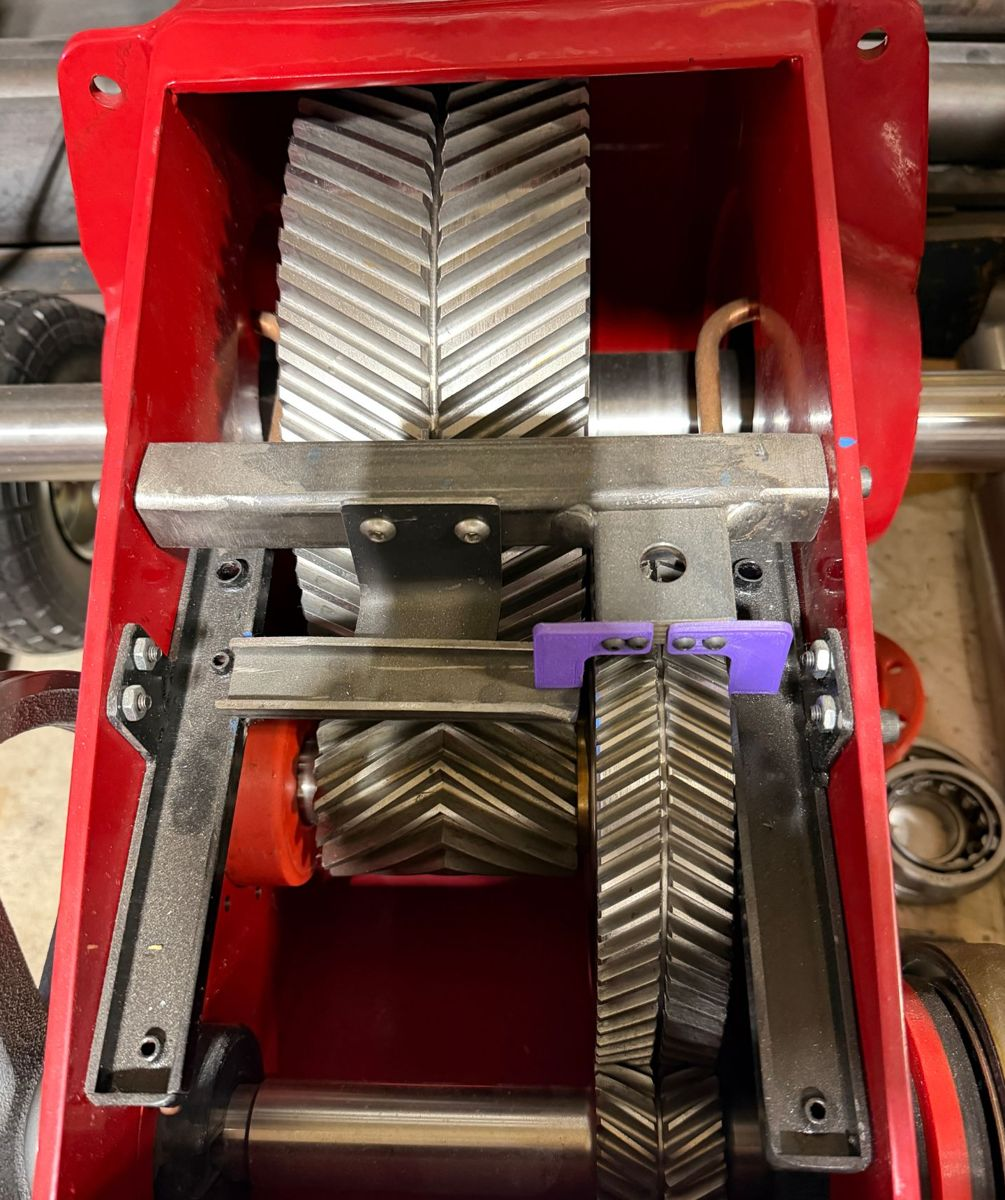
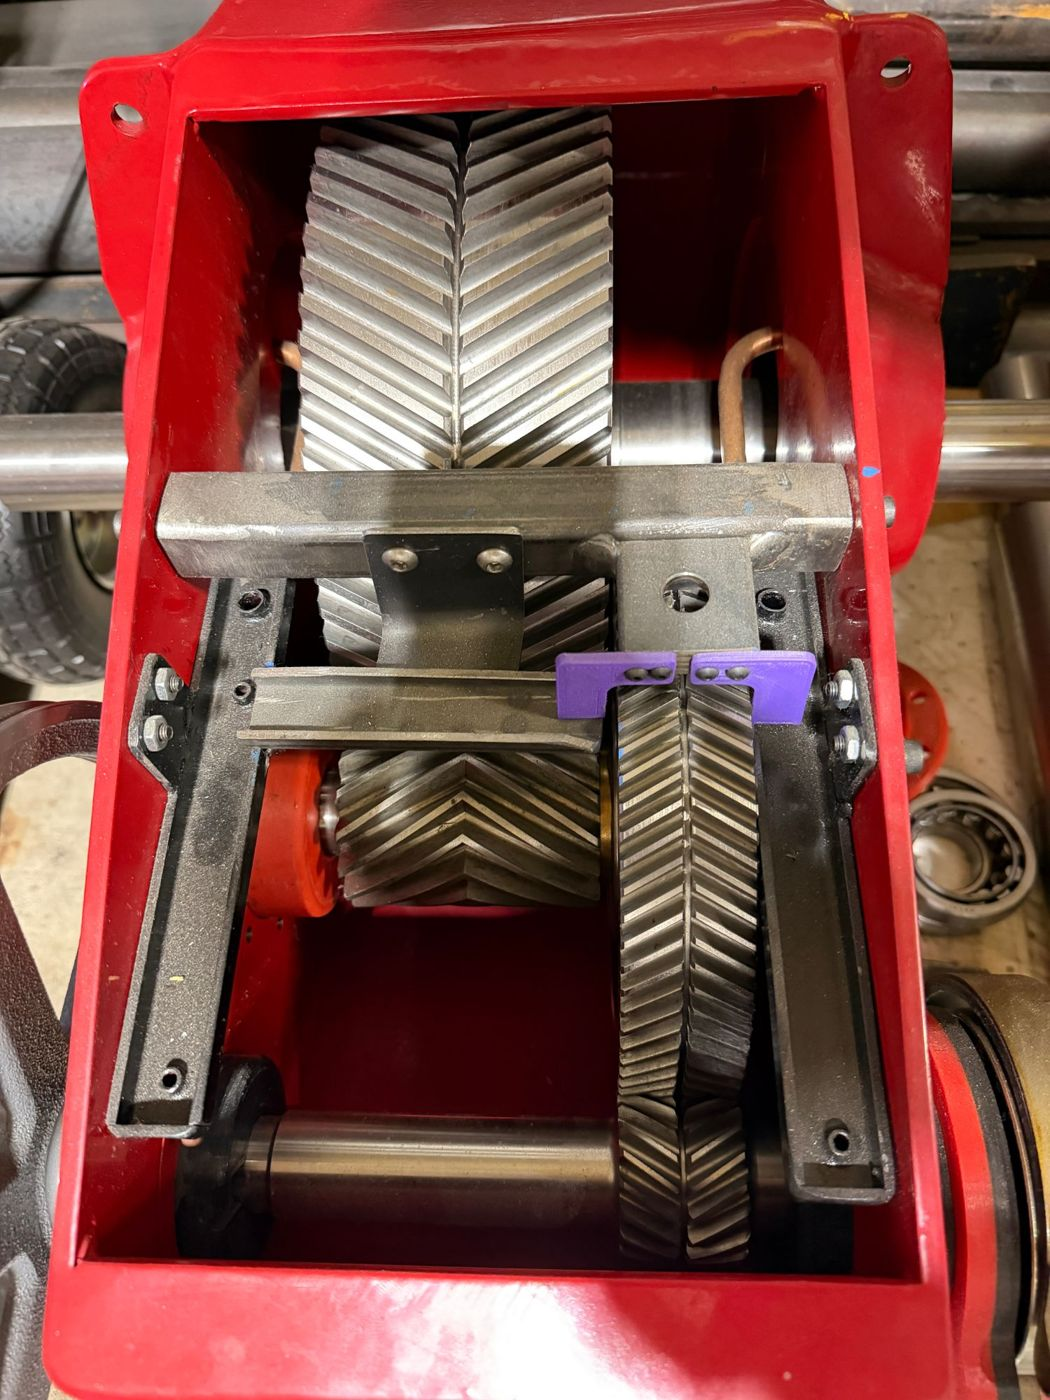
Show full service photos over a blurred backdrop; looser crops
Tall shop photos were heavily cropped by the wide service tiles.

diff --git a/index.html b/index.html
@@ -68,7 +68,7 @@
 
   <div class="services">
     <article class="service">
-      <div class="service-img" style="background-image:url(img/replacement.jpg)" role="img" aria-label="Double-helical replacement gears and pinion shafts set in a gearbox"></div>
+      <div class="service-img" style="--img:url(img/replacement.jpg)" role="img" aria-label="Double-helical replacement gears and pinion shafts set in a gearbox"></div>
       <div class="service-body">
         <h3>Replacement Gears</h3>
         <p>OEM part discontinued, or the original maker out of business? We measure your worn gear, work out the tooth geometry and make a new one that fits.</p>
@@ -82,7 +82,7 @@
     </article>
 
     <article class="service">
-      <div class="service-img" style="background-image:url(img/prototype.jpg)" role="img" aria-label="Machined splined metal discs"></div>
+      <div class="service-img" style="--img:url(img/prototype.jpg)" role="img" aria-label="Machined splined metal discs"></div>
       <div class="service-body">
         <h3>Prototype Gears</h3>
         <p>One-offs and short runs for new equipment and R&amp;D, with design review before anything gets cut and pricing that makes sense for small quantities.</p>
@@ -96,7 +96,7 @@
     </article>
 
     <article class="service">
-      <div class="service-img" style="background-image:url(img/production.jpg)" role="img" aria-label="Two matching precision spur gears with counterbored bolt patterns"></div>
+      <div class="service-img" style="--img:url(img/production.jpg)" role="img" aria-label="Two matching precision spur gears with counterbored bolt patterns"></div>
       <div class="service-body">
         <h3>Production &amp; Repeat Orders</h3>
         <p>Once a gear's tooling and programs are on file, every reorder is even faster, with the same inspection on every piece.</p>
@@ -110,7 +110,7 @@
     </article>
 
     <article class="service dark">
-      <div class="service-img" style="background-image:url(img/emergency.jpg)" role="img" aria-label="Open industrial gearbox with double-helical gears during repair"></div>
+      <div class="service-img" style="--img:url(img/emergency.jpg)" role="img" aria-label="Open industrial gearbox with double-helical gears during repair"></div>
       <div class="service-body">
         <h3>Breakdown Support</h3>
         <p>Equipment down? Tell us right away. Your job gets expedited, and where the application allows we can build a pre-hard gear that skips heat treat and grinding to get you running sooner.</p>

diff --git a/styles.css b/styles.css
@@ -85,7 +85,10 @@ h1, h2, h3 { font-family: var(--head); font-weight: 700; line-height: 1.02; text
 /* Services: alternating photo rows */
 .service { display: grid; grid-template-columns: 1fr 1fr; min-height: 460px; border-top: 1px solid var(--line); }
 .service:nth-child(even) .service-img { order: 2; }
-.service-img { background-size: cover; background-position: center; min-height: 320px; }
+/* Whole photo shown (contain), over a blurred copy of itself so tall shop photos aren't cropped */
+.service-img { position: relative; overflow: hidden; min-height: 320px; background: #15181b; }
+.service-img::before { content: ""; position: absolute; inset: -30px; background: var(--img) center / cover no-repeat; filter: blur(22px) brightness(.5); }
+.service-img::after { content: ""; position: absolute; inset: 14px; background: var(--img) center / contain no-repeat; }
 .service-body { padding: 64px 7%; display: flex; flex-direction: column; justify-content: center; }
 .service-body h3 { font-size: clamp(2rem, 3.4vw, 2.8rem); margin-bottom: 14px; }
 .service-body > p { color: var(--ink-2); font-size: 1.08rem; max-width: 500px; }
